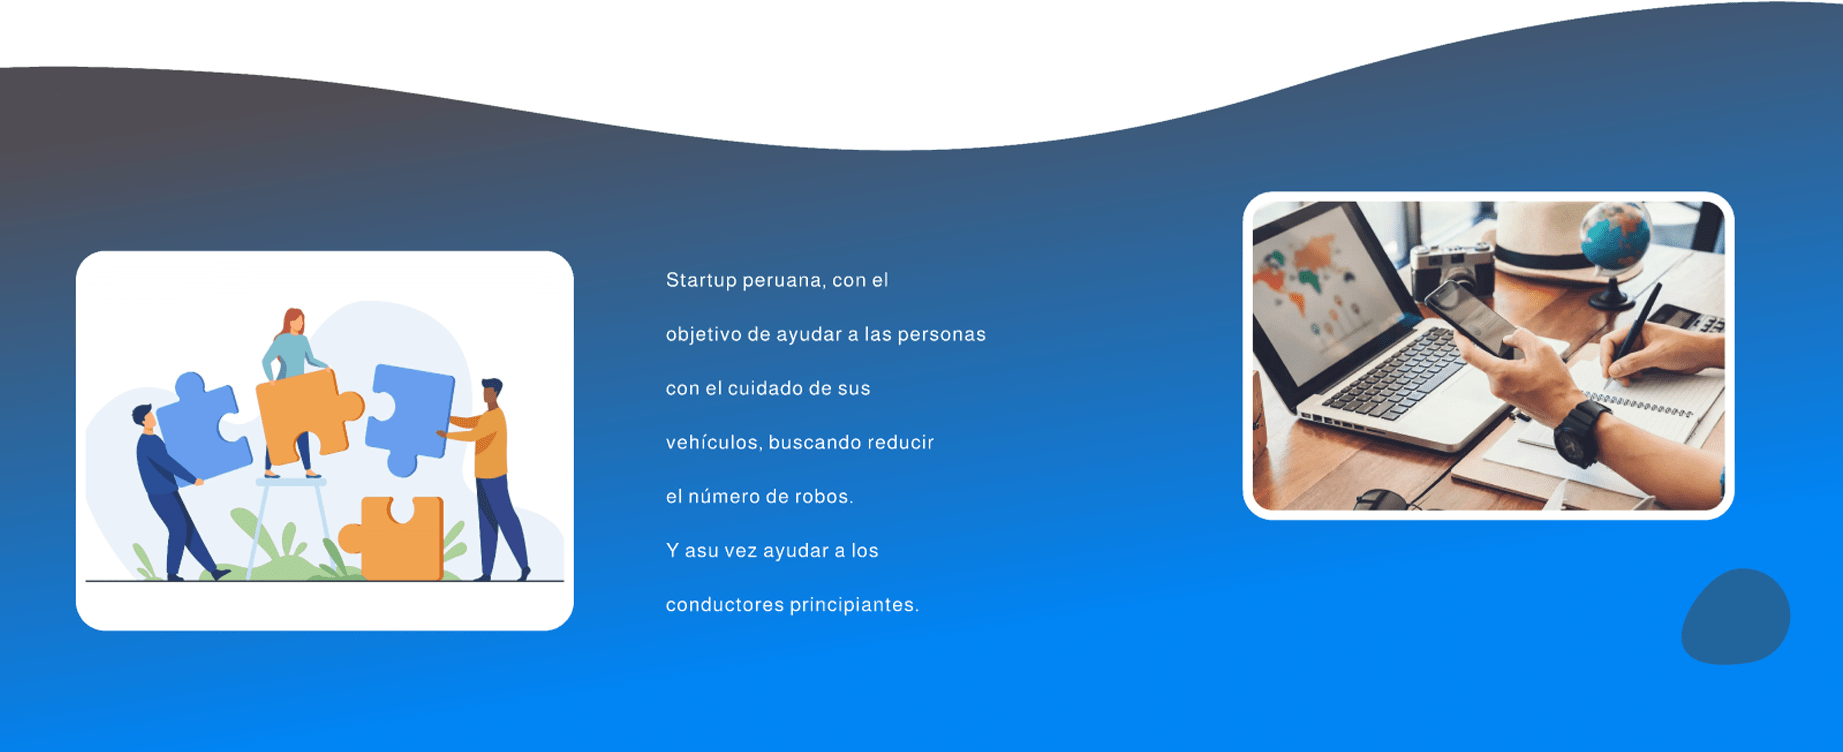
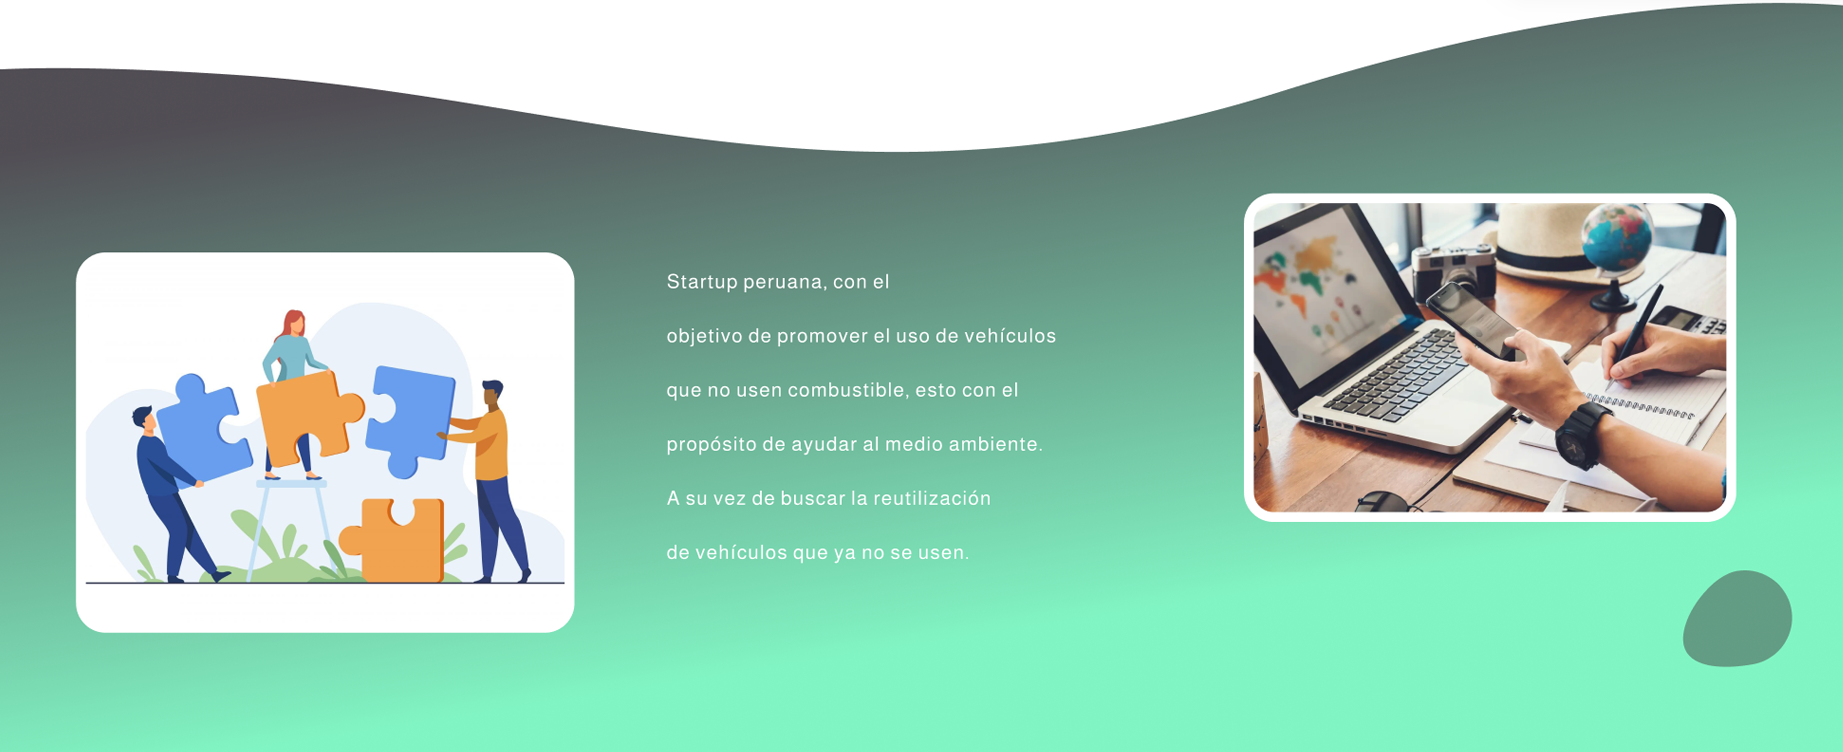
feat: DOne for RuedaRent

diff --git a/index.html b/index.html
@@ -7,7 +7,7 @@
 
 <body>
     <!--barra navegadora-->
-    <!--Section Luiggi-->
+    <!--Section David-->
     <section class="mapas">
         <nav class="navbar">
             <div class="menu-toggle">
@@ -16,13 +16,13 @@
                 <div class="menu-toggle-bar"></div>
             </div>
             <div class="logo-container">
-                <img src="images/SecurCar_icon.png" alt="Logo">
-                <span class="logo-container txt">SecurCar</span>
+                <img src="images/RuedaRent_icon.png" alt="Logo">
+                <span class="logo-container txt">RuedaRent</span>
             </div>
             <ul>
                 <li><a href="#home" class="borderless-btn">Home</a></li>
-                <li><a href="#alertas" class="borderless-btn">Ubicación</a></li>
-                <li><a href="#prono" class="borderless-btn">Ofrecemos</a></li>
+                <li><a href="#alertas" class="borderless-btn">Inscríbase</a></li>
+                <li><a href="#prono" class="borderless-btn">Vehículos</a></li>
                 <li><a href="#nostros" class="borderless-btn">Nosotros</a></li>
                 <li><a href="#contacto" class="borderless-btn">Contacto</a></li>
                 <li><a href="#ofrecemos" class="borderless-btn">Beneficios</a></li>
@@ -46,16 +46,17 @@
         </script>
         <div id="home" class="Contenedoruno">
             <div class="columna">
-                <img class="image1" src="images/persona2.png" class="imgBanner" alt="">
+                <img class="image1" src="images/mapa2.png" class="imgBanner" alt="">
             </div>
             <div class="columna1">
                 <p id="txtmapas" class="txtmapas">
-                    <span style="font-size: 35pt; font-weight: bold;">SecurCar</span>
+                    <span style="font-size: 35pt; font-weight: bold;">RuedaRent</span>
                     <br>
-                    SecurCar es una plataforma con el objetivo <br>
-                    de brindar a las personas la facilidad de<br>
-                    llevar formas de asegurar que su vehículo<br>
-                    estará seguro desde cualquier lugar.
+                    RuedaRent es una plataforma con el <br>
+                    objetivo de brindar a las personas la <br>
+                    facilidad de poder probar nuevas formas<br>
+                    de movilizarse, así como ayudar al medio<br>
+                    ambiente.
                 </p>
                 <div class="botonesimagenes">
                     <a href="#" class="btn1banner">Ver más</a>
@@ -64,7 +65,7 @@
 
             </div>
             <div class="columna">
-                <img class="image1" src="images/persona1.png" class="imgBanner2" alt="">
+                <img class="image1" src="images/bike1.png" class="imgBanner2" alt="">
             </div>
 
         </div>
@@ -72,21 +73,22 @@
 
 
     </section>
-    <!--Section Ruben-->
+    <!--Section Alejandro-->
     <section>
         <div class="alertas">
     </section>
     <div id="alertas" class="alert-section">
         <div class="alert-image">
-            <img src="images/mapa1.PNG" alt="Imagen de Alerta" class="alert-img">
+            <img src="images/alertas.png" alt="Imagen de Alerta" class="alert-img">
         </div>
         <div class="alert-content">
-            <h2 class="alert-title">Ubicación</h2>
-            <h3 style="font-size: 15pt;  font-family: Arial;">Registre e inscriba su vehículo, esto con el objetivo de
-                poder saber donde se
-                encuentra su vehículo en todo momento</h3>
-            <h3 style="font-size: 15pt; font-family: Arial;">Además, reciba información si se detecta actividad
-                sospechosa cerca de su vehículo</h3>
+            <h2 class="alert-title">Inscríbase</h2>
+            <h3 style="font-size: 15pt;  font-family: Arial, Helvetica, sans-serif;">Inscriba su medio de transporte, ya
+                sea bicicleta, scooter
+                u otro que ya no use.
+                De esta forme ganar un ingreso extra por medio de alquileres a otro usuario. De esta manera, podrá
+                ayudar a otras personas a descubrir una nueva
+                afición y a contribuir con el medio ambiente.</h3>
             <h3> </h3>
             <h3> </h3>
             <br>
@@ -96,30 +98,30 @@
     <section>
         </div>
     </section>
-    <!--Section Fabrizio-->
+    <!--Section Beth-->
     <section id="prono" class="backofr">
         <div class="Ofrecemos">
             <br><br><br><br><br><br><br><br>
-            <h1>Ofrecemos</h1>
-            <p>A continuación, lo que ofrecemos con <br>
-                la plataforma.</p>
+            <h1>Vehículos</h1>
+            <p>Los vehículos que están a su disposición en la <br>
+                aplicación.</p>
             <div class="card-container-wrapper">
                 <div class="card-container">
                     <div class="card">
-                        <h2 class="cardtext">Avisos de Caducidad</h2>
-                        <img src="images/soat.PNG" alt="Imagen de la Card 1">
+                        <h2 class="cardtext">Skates</h2>
+                        <img src="images/skate.png" alt="Imagen de la Card 1">
                         <button class="btn">MORE</button>
                     </div>
 
                     <div class="card">
-                        <h2 class="cardtext">Dispositivo Rastreador</h2>
-                        <img src="images/chip1.png" alt="Imagen de la Card 2">
+                        <h2 class="cardtext">Bicicletas</h2>
+                        <img src="images/bike2.png" alt="Imagen de la Card 2">
                         <button class="btn">MORE</button>
                     </div>
 
                     <div class="card">
-                        <h2 class="cardtext">Ayuda a los principiantes</h2>
-                        <img src="images/principiante.png" alt="Imagen de la Card 3">
+                        <h2 class="cardtext">Scooters</h2>
+                        <img src="images/scooter.png" alt="Imagen de la Card 3">
                         <button class="btn">MORE</button>
                     </div>
                 </div>
@@ -127,7 +129,7 @@
 
         </div>
     </section>
-    <!--Section Balbin-->
+    <!--Section Juan-->
     <section id="Beneficios" class="Beneficios">
         <div class="ContenerdorBeneficios">
             <div class="titulito">
@@ -135,32 +137,32 @@
             </div>
             <div class="parrafito">
                 <p>
-                    A continuación, se mostrarán algunos beneficios de comenzar a usar las diferentes funciones que
-                    planteamos.
+                    A continuación, se mostrarán algunos beneficios de comenzar a usar los distintos vehículos que
+                    mostramos en la página de alquiler.
                 </p>
             </div>
             <div class="robo">
-                <img class="imagen" src="images/robo.png" alt="">
-                <h3>Alerta a los Robos</h3>
+                <img class="imagen" src="images/traffic.png" alt="">
+                <h3>Evite el tráfico</h3>
             </div>
             <div class="transito">
-                <img class="imagen" src="images/transito.png" alt="">
-                <h3>Consejos Viales</h3>
+                <img class="imagen" src="images/greenfoot.png" alt="">
+                <h3>Reduzca su huella</h3>
             </div>
             <div class="persona3">
-                <img class="imagen" src="images/person3.png" alt="">
-                <h3>Papeles en Orden</h3>
+                <img class="imagen" src="images/ecofriend.png" alt="">
+                <h3>Vida más saludable</h3>
             </div>
         </div>
     </section>
-    <!--Section Louis-->
+    <!--Section Niurka-->
     <section>
         <section id="nostros" class="nosotros">
             <h2 style="font-size: 35pt;  font-family: Arial;">Nosotros</h2>
         </section>
         </div>
     </section>
-    <!--Section David-->
+
     <div id="contacto" class="contact-section">
         <h1>Contacto</h1>
         <p>Dejenos sus datos y nos comunicaremos con usted</p>
@@ -171,7 +173,7 @@
     </div>
     <section class="background-section">
         <div class="column">
-            <h2>SecurCar</h2>
+            <h2>RuedaRent</h2>
             <p></p>
         </div>
         <div class="column">
@@ -187,7 +189,7 @@
         <div class="column">
             <h2>Contact Us</h2>
             <p>+51 987 654 321</p>
-            <p>climaps@gmail.com</p>
+            <p>RuedaRent@gmail.com</p>
             <p>Lima, Perú</p>
         </div>
     </section>

diff --git a/stylessx.css b/stylessx.css
@@ -1,3 +1,4 @@
+/* David Section */
 html {
   scroll-behavior: smooth;
   font-family: Arial, Helvetica, sans-serif;
@@ -74,21 +75,21 @@ nav ul {
 }
 
 .round-btn.login {
-  background-color: #0084F4;
+  background-color: #01C880;
   color: white;
   align-items: center;
 }
 
 .round-btn.signup {
-  background-color: #66B5F8;
-  color: #0084F4;
+  background-color: #CDFEE4;
+  color: #01C880;
   align-items: center;
 }
 
 .section {
   margin: 0 10px;
   text-decoration: none;
-  color: #007bff;
+  color: #01C880;
 }
 
 .logo-container img {
@@ -97,7 +98,7 @@ nav ul {
 }
 
 .logo-container.txt {
-  color: #0084F4;
+  color: #01C880;
   margin: 10px;
 }
 
@@ -199,12 +200,13 @@ section.Beneficios {
   top: 500px;
 }
 
+/* Alejandro Section */
 .imagen {
   width: 400px;
   height: 430px;
   box-sizing: border-box;
   border-radius: 16px;
-  border: 8px solid #0084F4;
+  border: 8px solid #01C880;
 }
 
 .card-container-wrapper {
@@ -267,7 +269,7 @@ img {
 }
 
 .btn:hover {
-  background: linear-gradient(to bottom, #5c5c5c, #0084F4);
+  background: linear-gradient(to bottom, #5c5c5c, #01C880);
   color: white;
   border: none;
   padding: 5px 10px;
@@ -423,7 +425,7 @@ h2 {
 }
 
 a.btn1banner {
-  background-color: #0084F4;
+  background-color: #01C880;
   color: white;
   padding: 7px 50px;
   border-radius: 25px;
@@ -433,7 +435,7 @@ a.btn1banner {
 }
 
 a.btn2banner {
-  background-color: #0084F4;
+  background-color: #01C880;
   color: white;
   font-size: 12px;
   padding: 7px 50px;
@@ -447,7 +449,7 @@ a.btn2banner {
 a.btn1banner,
 a:hover {
   margin-left: 30px;
-  background-color: #0084F4;
+  background-color: #01C880;
   color: white;
   padding: 7px 50px;
   border-radius: 25px;
@@ -455,6 +457,7 @@ a:hover {
   text-decoration: none;
 }
 
+/*Beth*/
 .titulocol {
   font-size: 50px;
   color: white;
@@ -509,7 +512,7 @@ a:hover {
 }
 
 .logo-text {
-  color: #0084F4;
+  color: #01C880;
   margin: 0 10px;
 }
 
@@ -547,7 +550,7 @@ a:hover {
 .fixed-image {
   width: 20px;
   height: 20px;
-  border: 2px solid #007bff;
+  border: 2px solid #01C880;
   border-radius: 50%;
 }
 
@@ -565,7 +568,7 @@ a:hover {
 }
 
 .custom-button {
-  background-color: #0084F4;
+  background-color: #01C880;
   color: #FFFFFF;
   border: none;
   padding: 10px 20px;
@@ -581,7 +584,7 @@ a:hover {
   height: 65px;
   left: 46.53%;
   right: 21.18%;
-  color: #0084F4;
+  color: #01C880;
   font-family: Arial, Helvetica, sans-serif;
   font-style: normal;
   font-weight: 700;
@@ -590,6 +593,7 @@ a:hover {
   top: 200px;
 }
 
+/*Niurka*/
 .alert-description {
   height: 284px;
   left: 46.53%;
@@ -625,6 +629,7 @@ a:hover {
   transform: translate(50%);
 }
 
+/*Juan*/
 .parrafito p {
   position: absolute;
   top: 100px;
@@ -668,7 +673,7 @@ a:hover {
   height: 400px;
   box-sizing: border-box;
   border-radius: 16px;
-  border: 8px solid #0084F4;
+  border: 8px solid #01C880;
 }
 
 h3 {

diff --git a/README.md b/README.md
@@ -1,2 +1,2 @@
-# climaps-landing-page
-Repositorio que contiene todo lo relacionado al landing page de la start-up SecurCar
+
+Repositorio que contiene todo lo relacionado al landing page de la start-up RuedaRent
